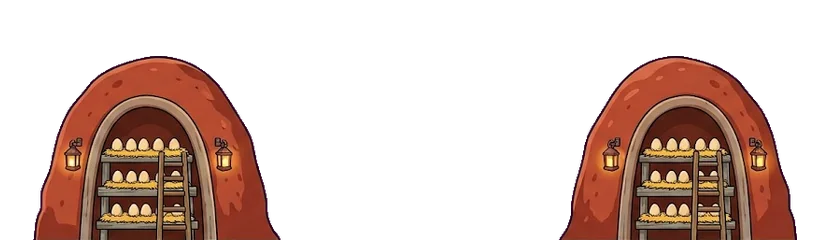
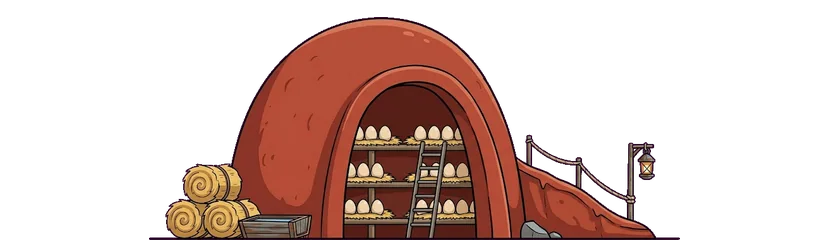
Ask the nursery for one chamber, and mean it
The row clause -- "they stand side by side in a row" -- is right for a row of
chicken coops and wrong for one nursery, and the tool was choosing it by which
group a panel sat in rather than by what the panel IS. A singular subject given
the row clause comes back drawn twice, which is what happened.

So `SINGULAR` names the panels whose subject is one thing, and they get the
scene clause instead. The nursery also describes what is either side of it now
-- straw bundles and a trough, an earth bank with a rope handrail and a lantern
-- because a picture asked for one chamber and nothing else leaves the model a
wide empty frame and an obvious way to fill it.

Claude-Session: https://claude.ai/code/session_01VB7vgHxBSEKYSTBbUW2vij

diff --git a/tools/gen_mid_panels.py b/tools/gen_mid_panels.py
@@ -166,12 +166,11 @@ WORLDS = {
   # slab, not a chamber, and a rectangle in a world made of rounded earth reads
   # as a cut-out pasted on. So the SHAPE is now the first thing described and
   # the thing it must not be is named outright.
-  'e2': "One big rounded dome-shaped chamber hollowed out of packed red-brown earth, its "
-        "mouth a tall smooth arch, with three tiers of wooden shelves inside holding rows of "
-        "pale cream eggs on straw and a little ladder leaning between the tiers. The chamber "
-        "is a ROUNDED MOUND of earth with soft curved edges -- never a rectangle, never a "
-        "flat wall, never a straight-sided slab -- and warm lanterns hang either side of the "
-        "arch.",
+  # Re-rolled twice. First take was a flat red slab; second obeyed the shape but
+  # the ROW clause drew the chamber twice. It is in SINGULAR now, and the rest
+  # of the frame is described so there is something OTHER than the chamber for
+  # the picture to contain.
+  'e2': "ONE big rounded dome-shaped nursery chamber hollowed out of packed red-brown earth, its mouth a tall smooth arch, with three tiers of wooden shelves inside holding rows of pale cream eggs on straw and a ladder leaning between the tiers. The chamber is a ROUNDED MOUND with soft curved edges -- never a rectangle, never a flat wall. To its LEFT a stack of round straw bundles and a small wooden water trough; to its RIGHT a low earth bank with a rope handrail going up it and one hanging lantern on a post. The chamber appears ONCE and nothing in the picture is repeated.",
   # The rope hoist came back as an unreadable pole with a hook floating beside
   # the wheel. Named as a proper wooden crane with a visible arm instead: a
   # thing that reads at a glance beats a thing that is technically described.
@@ -332,6 +331,14 @@ LAYERS = {
 }
 
 
+# WHICH CLAUSE A PANEL GETS IS A PROPERTY OF ITS SUBJECT, not of which group
+# it happens to sit in. "They stand side by side in a row" is exactly right for
+# a row of chicken coops and exactly wrong for one chamber: asked for a nursery
+# with the row clause, the model drew the nursery TWICE. Anything singular goes
+# in here and gets the scene clause instead.
+SINGULAR = {'e2', 'e4'}
+
+
 def prompt_for(name):
     """The full prompt for any name in PANELS or LAYERS -- one source of truth,
        because the composition rules differ per KIND and a caller that
@@ -340,7 +347,7 @@ def prompt_for(name):
         shape = HANG_SHAPE if name.endswith('_hang') else NEAR_SHAPE
         return (STYLE + 'A seamless side-scrolling background layer showing ' +
                 LAYERS[name] + '. ' + shape + LOOPS + MAGENTA + NOBLUE)
-    comp = SCENE if name in TRANSITION else ROW
+    comp = SCENE if (name in TRANSITION or name in SINGULAR) else ROW
     return STYLE + PANELS[name] + ' ' + comp + EDGES + MAGENTA + NOBLUE
 
 
@@ -359,7 +366,7 @@ def main():
             # ONE take each. The last round burned a day's window on three
             # takes of ten prompts and half of them failed on capacity anyway;
             # a panel that comes back wrong is cheaper to re-queue by name.
-            comp = SCENE if name in TRANSITION else ROW
+            comp = SCENE if (name in TRANSITION or name in SINGULAR) else ROW
             s.generate(STYLE + PANELS[name] + ' ' + comp + EDGES + MAGENTA + NOBLUE,
                        runs=1, model='Pro')
         print('queued %d panel(s). Run with --fetch, or cut with '
